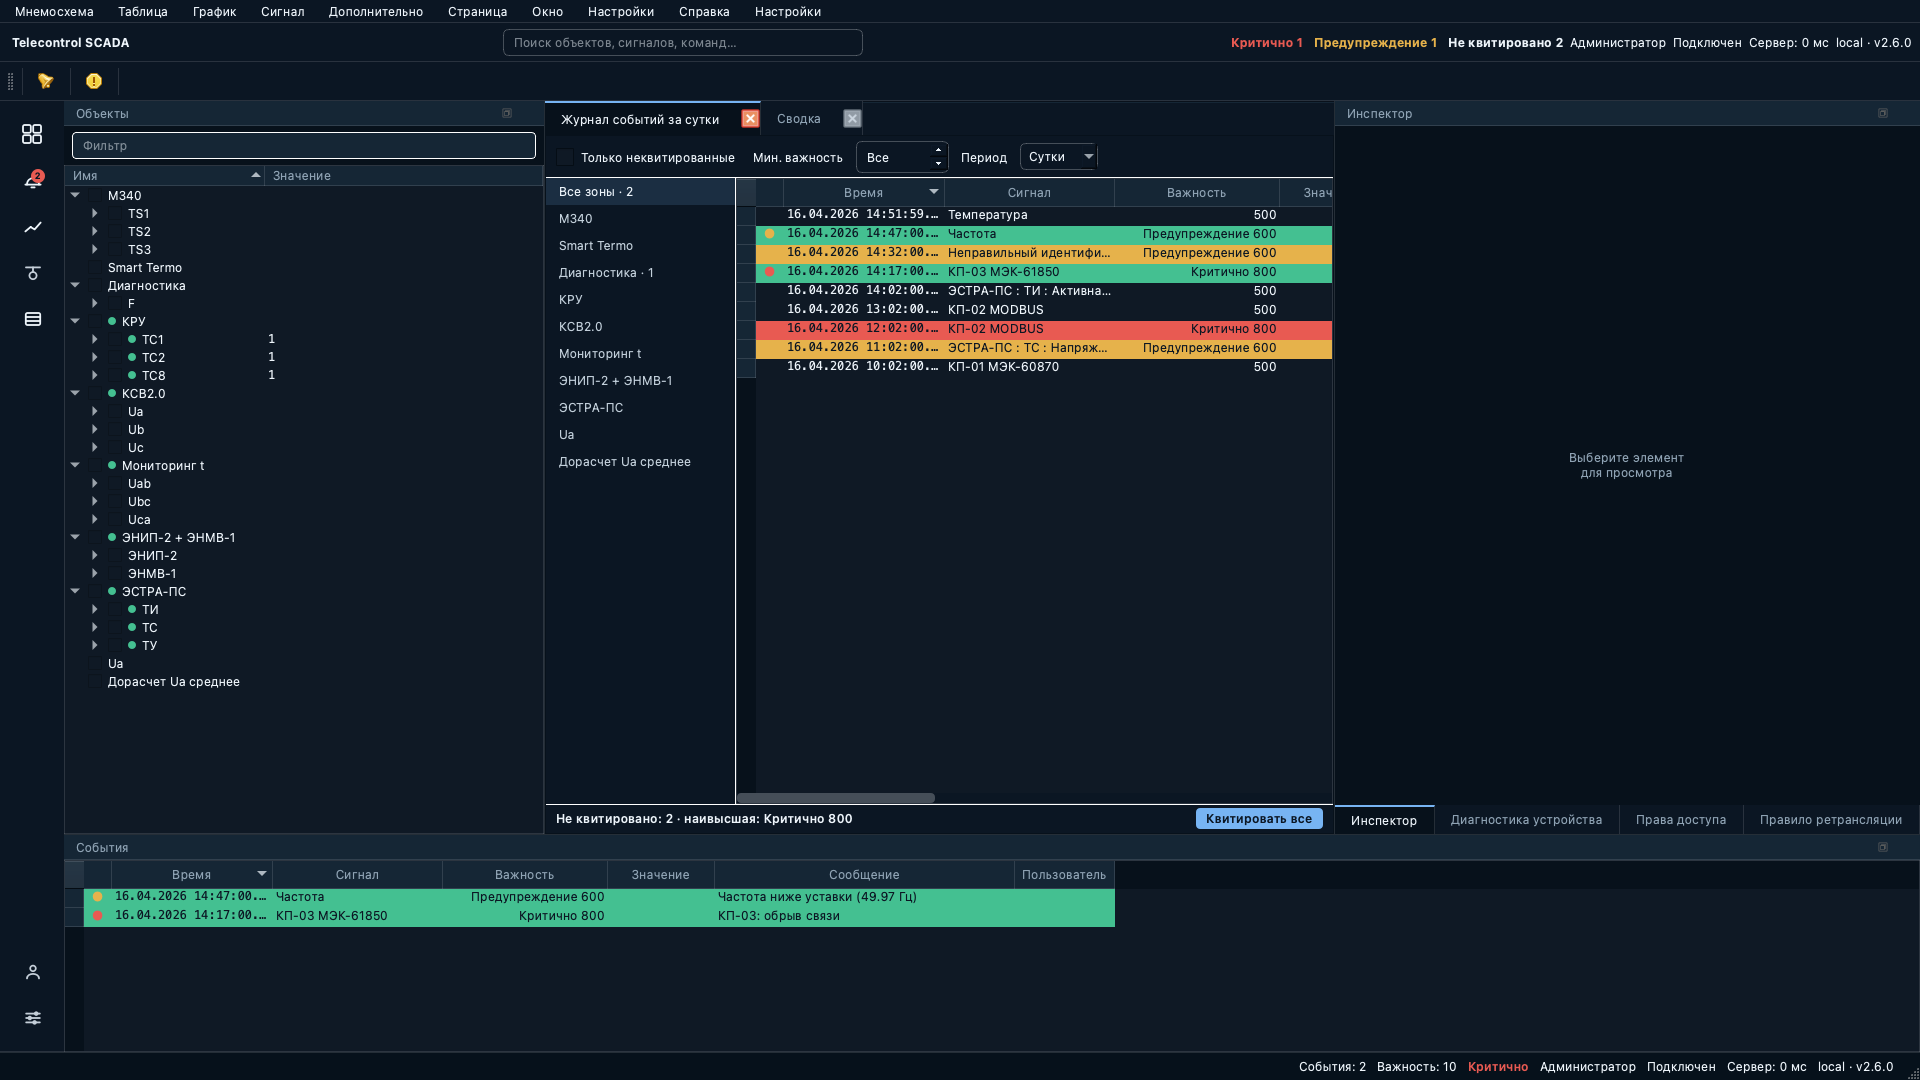
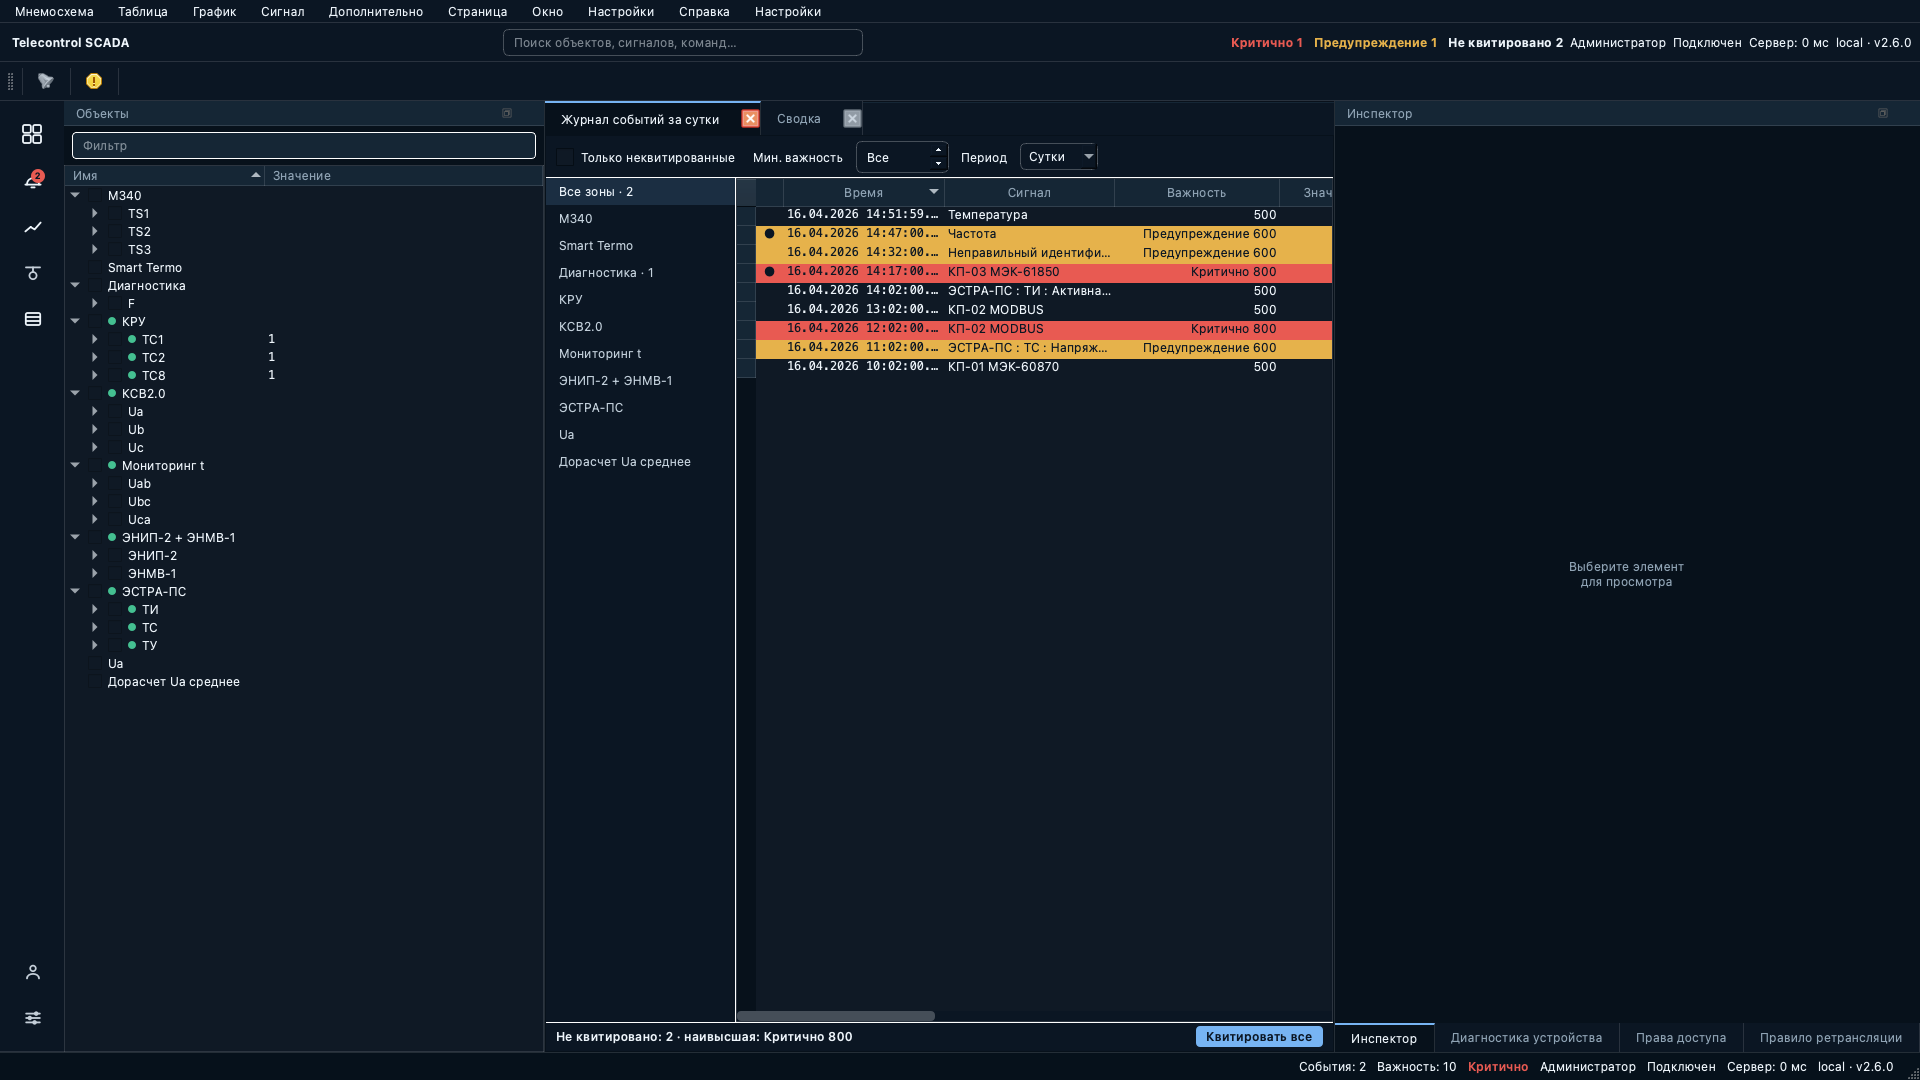
client: correct how the journal's alarm colours are described
The row colour is the event's severity (red critical, amber warning) and
acknowledging no longer changes it; the leading dot carries the
acknowledgement state on its own. The previous text described the dot as
severity-coloured, which is no longer how it reads. Captures refreshed:
a pending critical alarm now shows red rather than green.

diff --git a/client/workbench.md b/client/workbench.md
@@ -155,9 +155,14 @@ permalink: /client/workbench/
 В экспериментальном интерфейсе [журнал событий](../events/) читается как
 панель тревог:
 
+- **Цвет строки — важность.** Строка тревоги окрашивается по важности
+  (красная — критично, жёлтая — предупреждение); рядовые события остаются без
+  заливки, чтобы взгляд притягивали только тревоги. Квитирование цвет строки
+  не меняет.
 - **Точка «не квитировано»** — первый столбец помечает каждую неквитированную
-  строку точкой цвета важности (красная — критично, жёлтая — предупреждение),
-  а ячейка «Время квитирования» такой строки показывает «— ожидает —». Точка
+  строку точкой, а ячейка «Время квитирования» такой строки показывает
+  «— ожидает —». Точка отвечает за состояние квитирования, цвет строки — за
+  важность, поэтому неквитированная критичная тревога остаётся красной. Точка
   не попадает в экспорт и печать — это элемент отображения, а не записи.
 - **Название важности** — столбец «Важность» дополняет число названием
   диапазона («Критично 800», «Предупреждение 600»).

diff --git a/en/client/workbench.md b/en/client/workbench.md
@@ -150,9 +150,13 @@ mini-graph of the value over the last hour, updating live.
 In the experimental interface the [event journal]({{ '/en/client/events/' | relative_url }})
 reads as an alarm surface:
 
+- **Row colour is severity.** An alarm row is coloured by its severity (red —
+  critical, amber — warning); routine events stay unfilled so the eye is drawn
+  only to alarms. Acknowledging does not change the row's colour.
 - **Pending dot** — the leading column marks every unacknowledged row with a
-  severity-coloured dot (red — critical, amber — warning), and such a row's
-  "Acknowledge Time" cell reads "— pending —". The dot stays out of exports
+  dot, and such a row's "Acknowledge Time" cell reads "— pending —". The dot
+  carries the acknowledgement state and the row colour carries the severity,
+  so a pending critical alarm still reads red. The dot stays out of exports
   and printouts — it is display chrome, not part of the record.
 - **Named severity** — the "Severity" column names the alarm band next to the
   number ("Critical 800", "Warning 600").
